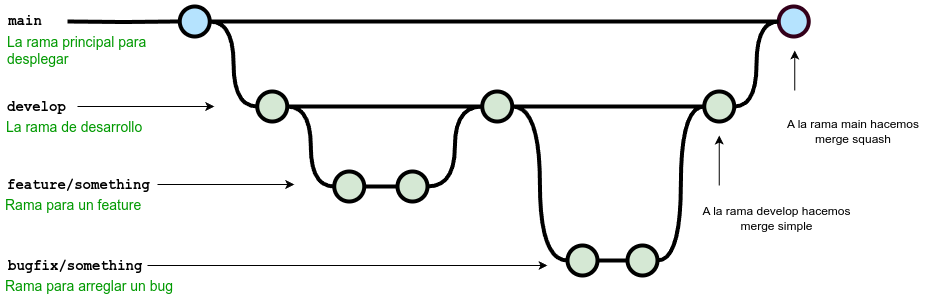
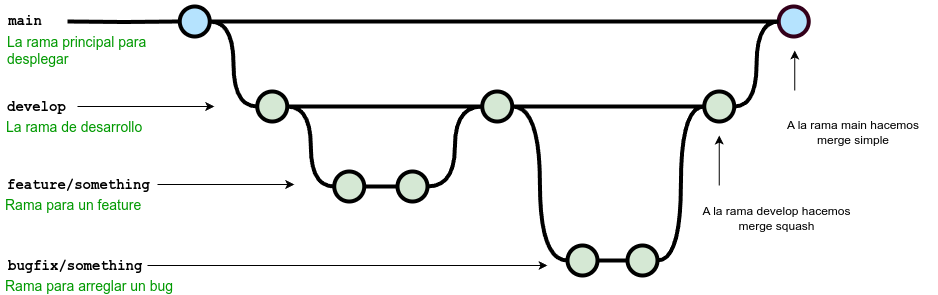
Quartz sync: Sep 23, 2025, 11:32 AM

Changed region(s): [[0.8348, 0.3966, 0.9893, 0.4881], [0.7729, 0.7322, 0.8657, 0.7932]]

diff --git a/content/notes/20250306075826-gittea_workflow.md b/content/notes/20250306075826-gittea_workflow.md
@@ -1,7 +1,7 @@
 ---
 title: "Gitea workflow"
 date: 2025-03-06T00:00:00+01:00
-lastmod: 2025-04-16T00:00:00+02:00
+lastmod: 2025-09-23T00:00:00+02:00
 tags: ["español"]
 draft: false
 ---